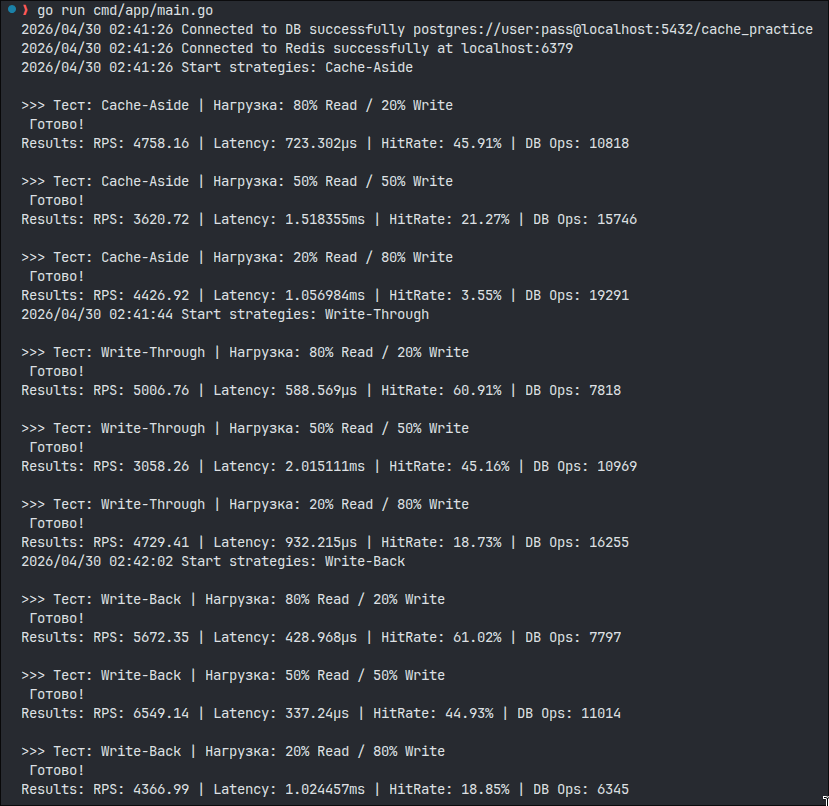
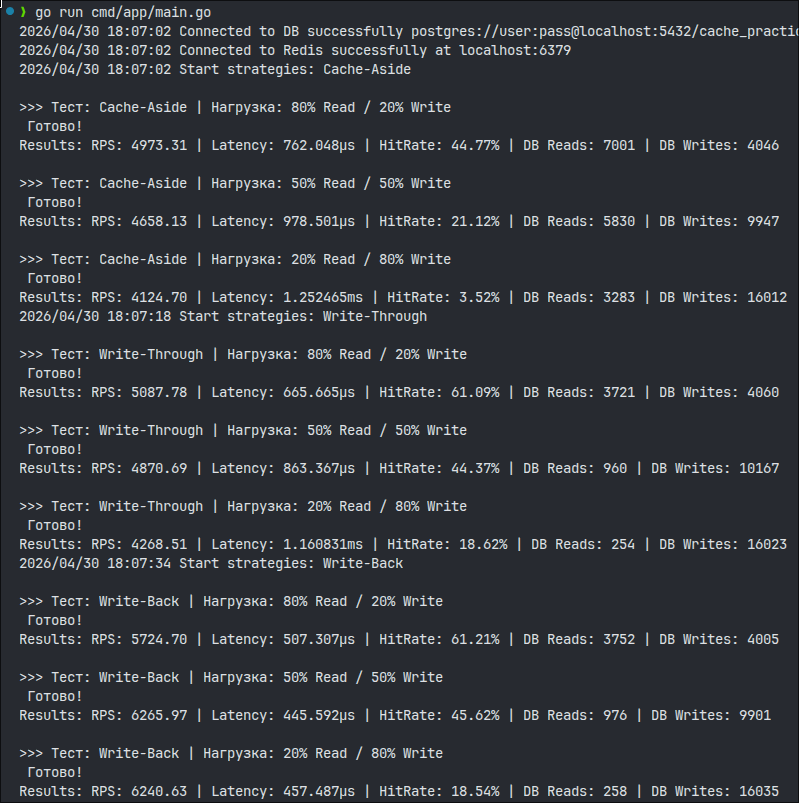
updated readme

diff --git a/CacheTypes/internal/metrics/metrics.go b/CacheTypes/internal/metrics/metrics.go
@@ -31,10 +31,11 @@ func (m *Metrics) Reset() {
 	m.mu.Unlock()
 }
 
-func (m *Metrics) GetStats() (int64, int64, int64, time.Duration) {
+func (m *Metrics) GetStats() (int64, int64, int64, int64, time.Duration) {
 	total := atomic.LoadInt64(&m.TotalRequests)
 	hits := atomic.LoadInt64(&m.CacheHits)
-	dbOps := atomic.LoadInt64(&m.DBReads) + atomic.LoadInt64(&m.DBWrites)
+	dbReads := atomic.LoadInt64(&m.DBReads)
+	dbWrites := atomic.LoadInt64(&m.DBWrites)
 
 	var avgLat time.Duration
 	m.mu.Lock()
@@ -47,5 +48,5 @@ func (m *Metrics) GetStats() (int64, int64, int64, time.Duration) {
 	}
 	m.mu.Unlock()
 
-	return total, hits, dbOps, avgLat
+	return total, hits, dbReads, dbWrites, avgLat
 }

diff --git a/CacheTypes/internal/tester/load_gen.go b/CacheTypes/internal/tester/load_gen.go
@@ -48,9 +48,9 @@ func RunTest(repo repository.Repository, m *metrics.Metrics, readRatio float64) 
 	}
 	wg.Wait()
 	fmt.Println(" Готово!")
-	total, hits, dbOps, avgLat := m.GetStats()
+	total, hits, dbReads, dbWrites, avgLat := m.GetStats()
 	rps := float64(total) / time.Since(start).Seconds()
 
-	fmt.Printf("Results: RPS: %.2f | Latency: %v | HitRate: %.2f%% | DB Ops: %d\n",
-		rps, avgLat, float64(hits)/float64(total)*100, dbOps)
+	fmt.Printf("Results: RPS: %.2f | Latency: %v | HitRate: %.2f%% | DB Reads: %d | DB Writes: %d\n",
+		rps, avgLat, float64(hits)/float64(total)*100, dbReads, dbWrites)
 }

diff --git a/CacheTypes/README.md b/CacheTypes/README.md
@@ -29,31 +29,30 @@
 
 ## Результаты
 
-| Strategy | Scenario | RPS | Avg Latency | Hit Rate | DB Ops |
-|---|---|---|---|---|---|
-| **Cache-Aside** | 80% Read / 20% Write | 4758.16 | 0.723 ms | 45.91% | 10818 |
-| **Cache-Aside** | 50% Read / 50% Write | 3620.72 | 1.518 ms | 21.27% | 15746 |
-| **Cache-Aside** | 20% Read / 80% Write | 4426.92 | 1.056 ms | 3.55% | 19291 |
-| **Write-Through** | 80% Read / 20% Write | 5006.76 | 0.588 ms | 60.91% | 7818 |
-| **Write-Through** | 50% Read / 50% Write | 3058.26 | 2.015 ms | 45.16% | 10969 |
-| **Write-Through** | 20% Read / 80% Write | 4729.41 | 0.932 ms | 18.73% | 16255 |
-| **Write-Back** | 80% Read / 20% Write | 5672.35 | 0.428 ms | 61.02% | 7797 |
-| **Write-Back** | 50% Read / 50% Write | **6549.14** | **0.337 ms** | 44.93% | 11014 |
-| **Write-Back** | 20% Read / 80% Write | 4366.99 | 1.024 ms | 18.85% | 6345 |
+| Strategy | Scenario | RPS | Avg Latency | Hit Rate | DB Reads | DB Writes |
+|---|---|---|---|---|---|---|
+| **Cache-Aside** | 80% Read / 20% Write | 4973.31 | 762.048µs | 44.77% | 7001 | 4046 |
+| **Cache-Aside** | 50% Read / 50% Write | 4658.13 | 978.501µs | 21.12% | 5830 | 9947 |
+| **Cache-Aside** | 20% Read / 80% Write | 4124.70 | 1.252465ms | 3.52% | 3283 | 16012 |
+| **Write-Through** | 80% Read / 20% Write | 5087.78 | 665.665µs | 61.09% | 3721 | 4060 |
+| **Write-Through** | 50% Read / 50% Write | 4870.69 | 863.367µs | 44.37% | 960 | 10167 |
+| **Write-Through** | 20% Read / 80% Write | 4268.51 | 1.160831ms | 18.62% | 254 | 16023 |
+| **Write-Back** | 80% Read / 20% Write | 5724.70 | 507.307µs | 61.21% | 3752 | 4005 |
+| **Write-Back** | 50% Read / 50% Write | 6265.97 | 445.592µs | 45.62% | 976 | 9901 |
+| **Write-Back** | 20% Read / 80% Write | 6240.63 | 457.487µs | 18.54% | 258 | 16035 |
 
 ## Анализ результатов
 
-### Сценарий Read-heavy (80/20)
-**Write-Back** лидирует по RPS (5672) и минимальной задержке (0.428 ms). Стратегии с упреждающим наполнением кеша (`Write-Through` и `Write-Back`) показали Hit Rate ~61%, что значительно выше, чем у `Cache-Aside` (45.91%). Это подтверждает, что пре-наполнение кеша при записи положительно влияет на последующие чтения.
+## 1. Сравнение производительности (RPS & Latency)
+*   **Write-Back — абсолютный лидер:** Стратегия показала лучшую пропускную способность и минимальную задержку. В отличие от других методов, производительность Write-Back практически не деградирует при переходе от чтения к записи.
 
-### Balanced сценарий (50/50)
-В этом сценарии преимущество **Write-Back** максимально:
-- **RPS 6549** (почти в 2 раза выше конкурентов).
-- **Latency 0.337 ms** (в 4.5 раза быстрее Cache-Aside).
-Асинхронная запись полностью нивелирует задержки дисковой подсистемы для вызывающего кода.
+## 2. Эффективность кэширования (Hit Rate)
+*   **Преимущество упреждающего наполнения:** `Write-Through` и `Write-Back` поддерживают Hit Rate на уровне **61%** (в Read-heavy сценарии), так как данные попадают в кэш сразу в момент записи.
+*   **Проблема "холодного" кэша:** В `Cache-Aside` при нагрузке 20/80 Hit Rate падает до ничтожных **3.52%**. Это подтверждает, что для систем с частым обновлением данных классический Cache-Aside малоэффективен.
 
-### Write-heavy сценарий (20/80)
-При высокой интенсивности записи **Write-Back** сохраняет преимущество по количеству операций с БД (6345 против 19000+ у Aside), что существенно снижает общую нагрузку на инфраструктуру.
+## 3. Нагрузка на базу данных (Database IO)
+*   **Оптимизация чтений:** В сценариях с интенсивной записью `Write-Through` и `Write-Back` практически избавляют БД от операций чтения (всего **~250** чтений против **3283** у Cache-Aside).
+*   **Снижение общего IO:** `Write-Back` позволяет агрегировать операции, существенно снижая суммарное количество обращений к дисковой подсистеме.
 
 ## Выводы
 
